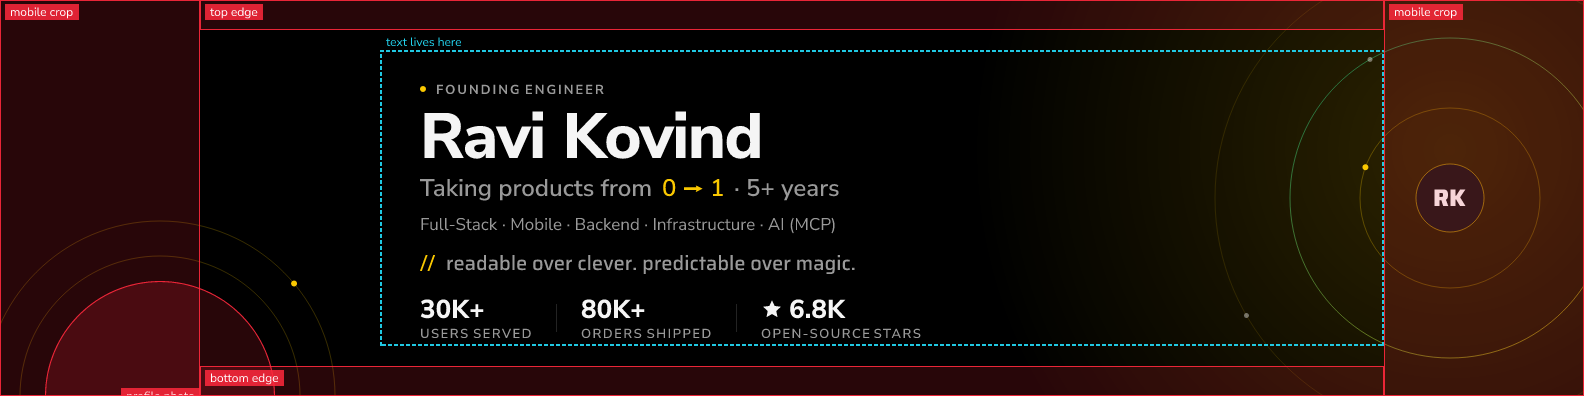
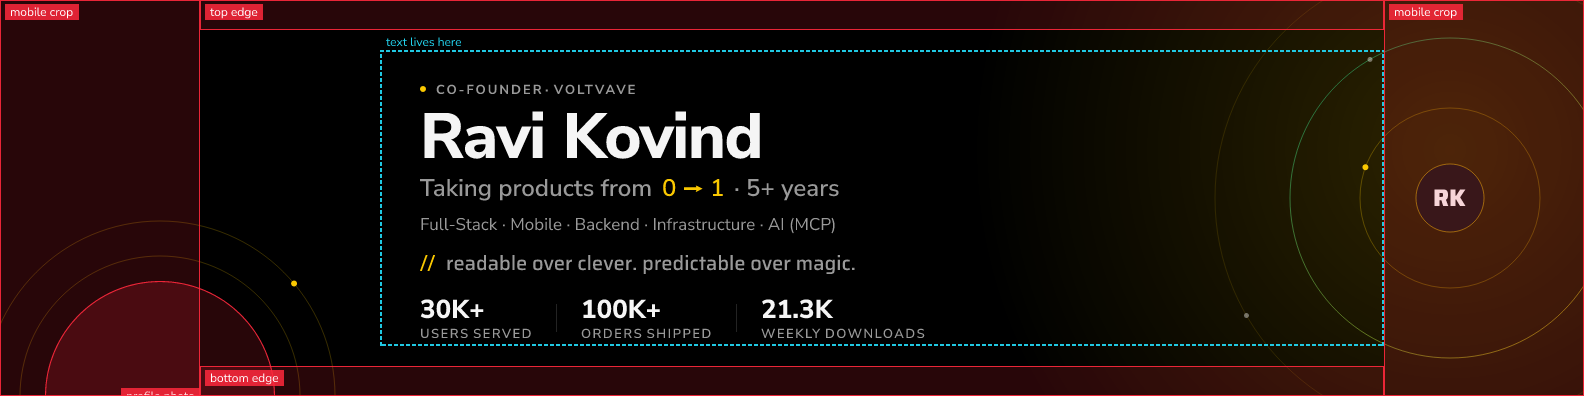
refresh(ravikovind): revision 3 — current role, current stats, corrected open-source metric
Source re-checked against ravikovind.com (was ravikovind.github.io):

- Title: "Founding Engineer" -> "Co-founder, VoltVave Innovations"
  (his real company, active since Mar 2025 — TingTing was 2022-25).
- TingTing's order stat: 80K+ -> 100K+, matching the current site.
- Open-source stat corrected, not just updated: the previous "*6.8K"
  GitHub-star claim doesn't hold up (gh api repos/ravikovind/flutter_lucide
  shows 25 stars). Replaced with the package's real, verified pub.dev
  metric — 21.3K weekly downloads, "verified publisher: voltvave.com".
  Dropped the drawn star icon along with the stat it illustrated.

Re-rendered both the cover and its @2x version, regenerated the guides
overlay + mobile crop (checked: no text in any danger zone), and
refreshed the three website copies of these images that had gone
stale (apps/web/public/gallery/linkedin-cover.png + guides-overlay.png
+ guides-mobile.png, apps/web/public/examples/ravikovind.png).

Full-repo npm run examples:diff (40 images) and apps/web build both
verified clean after this change.

Changed region(s): [[0.464, 0.7576, 0.5878, 0.8788], [0.2784, 0.2121, 0.4021, 0.2424], [0.3712, 0.7576, 0.4331, 0.8182]]

diff --git a/examples/ravikovind/plan.md b/examples/ravikovind/plan.md
@@ -4,13 +4,15 @@
 
 **Revision 2** — fonts changed to Nunito Sans + Saira; palette changed to the Open Notifier look (pure black, one accent) with the accent moved from green to yellow; unclear decorative elements removed (see §5.4).
 
+**Revision 3** — refreshed with Ravi's current facts from ravikovind.com (was ravikovind.github.io): title changed from "Founding Engineer" to "Co-founder, VoltVave Innovations" (his real company, active since Mar 2025); TingTing's order count updated 80K+ → 100K+ per the current site. The open-source stat was replaced: the previous "★6.8K" GitHub star claim didn't check out — `gh api repos/ravikovind/flutter_lucide` shows 25 stars — so it's now the package's actual, verified pub.dev metric (21.3K weekly downloads) instead, with the star icon dropped since the stat is no longer about stars.
+
 ---
 
 ## 1. Goal
 
 Produce a clean, premium, developer-flavoured LinkedIn banner that tells a recruiter or founder in under 3 seconds:
 
-1. **Who:** Ravi Kovind, Founding Engineer
+1. **Who:** Ravi Kovind, Co-founder of VoltVave Innovations
 2. **What:** takes products from 0 → 1 across Full-Stack, Mobile, Backend, Infrastructure (and AI/MCP)
 3. **Why trust him:** proof numbers + engineering philosophy
 
@@ -18,22 +20,22 @@ Tone: calm, confident, engineered. Not flashy, no stock "hacker" imagery, no neo
 
 ---
 
-## 2. Source facts (from ravikovind.github.io — use only these)
+## 2. Source facts (from ravikovind.com — use only these)
 
 | Field                  | Value                                                                                      |
 | ---------------------- | ------------------------------------------------------------------------------------------ |
 | Name                   | Ravi Kovind                                                                                |
-| Title                  | Founding Engineer                                                                          |
-| Experience             | 5+ years, 0 → 1 products                                                                   |
-| Scope                  | Full-Stack · Mobile · Backend · Infrastructure                                             |
+| Title                  | Co-founder, VoltVave Innovations (active since Mar 2025)                                   |
+| Experience             | 5+ years (since 2020), 0 → 1 products                                                     |
+| Scope                  | Full-Stack · Mobile · Backend · Infrastructure · AI (MCP)                                  |
 | Philosophy             | "Readable over clever. Predictable over magic."                                            |
-| Proof stats (TingTing) | 30K+ users · 80K+ orders · 35+ live stores                                                 |
-| Open source            | flutter_lucide — ★ 6.8K                                                                    |
-| Education              | NIT Allahabad                                                                              |
+| Proof stats (TingTing) | 30K+ users · 100K+ orders · 35+ live stores · ₹1.5Cr+ GMV (Founding Engineer, 2022–25)      |
+| Open source            | flutter_lucide — 21.3K weekly downloads on pub.dev, verified publisher (github.com/ravikovind/flutter_lucide has 25 stars — not the metric to lead with) |
+| Education              | NIT Allahabad (MNNIT)                                                                       |
 | Location               | Bengaluru, India                                                                           |
-| Core stack             | Flutter, Dart, Node.js, TypeScript, Python, Next.js, MongoDB, PostgreSQL, AWS, GCP, Docker |
-| AI work                | MCP client engine (MCPVave), Open Notifier (MCP push)                                      |
-| Handle / site          | ravikovind.github.io · @ravi_kovind                                                        |
+| Core stack             | Flutter, Dart, Node.js, TypeScript, Python (FastAPI), PostgreSQL, AWS, Kafka, Redis         |
+| AI work                | MCP client engine (MCPVave, Claude/GPT/Gemini across 6 platforms), Open Notifier (MCP push) |
+| Handle / site          | ravikovind.com · @ravi_kovind                                                               |
 | Brand mark             | "RK" monogram (text)                                                                       |
 
 Do **not** include phone number or email on the banner.
@@ -103,12 +105,12 @@ Rule: **yellow is the only accent.** Green appears once (the gradient ring). No 
 ```
  0                320  380                                   1110        1384      1584
  +-----------------+---+--------------------------------------+-----------+----------+
- |                 |   |  ● FOUNDING ENGINEER                  |           |  ◯ orbit |
+ |                 |   |  ● CO-FOUNDER · VOLTVAVE              |           |  ◯ orbit |
  |                 |   |  Ravi Kovind                          |  (empty,  |  rings   |
  |                 |   |  Taking products from 0 → 1 · 5+ yrs |  calm)    |  + RK    |
  |   ( ring around |   |  Full-Stack · Mobile · Backend · ...  |           |          |
  |   profile pic ) |   |  // readable over clever ...          |           |          |
- |                 |   |  30K+ USERS   80K+ ORDERS   ★6.8K OSS |           |          |
+ |                 |   |  30K+ USERS  100K+ ORDERS  21.3K DL/WK|           |          |
  +-----------------+---+--------------------------------------+-----------+----------+
 ```
 
@@ -116,7 +118,7 @@ Rule: **yellow is the only accent.** Green appears once (the gradient ring). No 
 
 | Line       | y (baseline) | Content                                                     | Style                                                          |
 | ---------- | ------------ | ----------------------------------------------------------- | -------------------------------------------------------------- |
-| Eyebrow    | 92           | `● FOUNDING ENGINEER` — dot is accent yellow                | Nunito Sans 700, 13 px, uppercase, +2 px tracking, secondary   |
+| Eyebrow    | 92           | `● CO-FOUNDER · VOLTVAVE` — dot is accent yellow             | Nunito Sans 700, 13 px, uppercase, +2 px tracking, secondary   |
 | Name       | 158          | `Ravi Kovind`                                               | Nunito Sans 800, 64 px, primary                                |
 | Title      | 196          | `Taking products from 0 → 1 · 5+ years`                     | Nunito Sans 600, 24 px, secondary; the `0 → 1` in accent yellow |
 | Scope      | 230          | `Full-Stack · Mobile · Backend · Infrastructure · AI (MCP)` | Nunito Sans 400, 17 px, secondary                              |
@@ -126,8 +128,8 @@ Rule: **yellow is the only accent.** Green appears once (the gradient ring). No 
 **Stats row** (number on top, label below):
 
 - `30K+` USERS SERVED
-- `80K+` ORDERS SHIPPED
-- `★ 6.8K` OPEN-SOURCE STARS (the star is drawn as a shape, not a font glyph)
+- `100K+` ORDERS SHIPPED
+- `21.3K` WEEKLY DOWNLOADS (flutter_lucide, pub.dev — plain number, no icon)
 
 Separate groups with a thin vertical hairline (1 px, white @ 14%, 28 px tall, 24 px either side).
 

diff --git a/examples/ravikovind/build-notes.md b/examples/ravikovind/build-notes.md
@@ -1,6 +1,18 @@
-# Build notes — Ravi Kovind LinkedIn cover (revision 2)
+# Build notes — Ravi Kovind LinkedIn cover (revision 3)
 
 Built from [`plan.md`](plan.md) with snap-x. The plan is the source of truth for copy, layout, colour and type; this file records how it was executed and what differed.
+
+## What changed in revision 3
+- **Source re-checked against ravikovind.com** (the plan previously cited ravikovind.github.io). Title changed
+  **Founding Engineer → Co-founder, VoltVave Innovations** (his real company, active since Mar 2025).
+  TingTing's order stat updated **80K+ → 100K+** to match the site's current numbers.
+- **Open-source stat corrected, not just updated:** the previous "★6.8K" GitHub-star claim was checked with
+  `gh api repos/ravikovind/flutter_lucide` and does not hold up — the real repo has 25 stars. Replaced with
+  the package's actual, verified pub.dev metric: 21.3K weekly downloads (cross-checked via the pub.dev page,
+  which also shows a "verified publisher: voltvave.com" badge). The star-shaped SVG icon was removed from
+  `_cover.mjs` along with it, since the stat is no longer about stars — this keeps the design honest rather
+  than reusing a drawn icon that no longer matches what it's illustrating.
+- Layout, palette, fonts and every other line of copy are unchanged from revision 2.
 
 ## What changed in revision 2
 - **Fonts:** Nunito Sans (all text) + Saira (the "mono role": the `//` philosophy line and the `RK` monogram). Was Inter + JetBrains Mono.
@@ -16,7 +28,7 @@ Built from [`plan.md`](plan.md) with snap-x. The plan is the source of truth for
 ## Deviations from the plan
 1. **snap-x (Satori → PNG)** rather than HTML + Playwright — this is a snap-x example.
 2. **No `.jpg`** — snap-x outputs PNG only; LinkedIn accepts PNG.
-3. **`★` and `●` are drawn shapes** (inline SVG star, CSS circle), not font glyphs, so they can never render as blank boxes.
+3. **`●` is a drawn shape** (CSS circle), not a font glyph, so it can never render as a blank box. (Revision 2/3 dropped the earlier drawn `★` icon along with the stat it illustrated — see revision 3 notes above.)
 4. **Saira is not a true monospace** — used for the mono role by choice (per the plan).
 5. **Stats are stacked** (number over label) to keep the block within `x ≤ 1080`.
 
@@ -26,7 +38,7 @@ Built from [`plan.md`](plan.md) with snap-x. The plan is the source of truth for
 - [x] Name is the most prominent element; legible at 50% zoom
 - [x] Yellow is the only accent; green appears once (the gradient ring)
 - [x] Every element has an obvious purpose — nothing left that needs explaining
-- [x] Copy matches plan §2 ("Ravi Kovind", "0 → 1", "6.8K")
+- [x] Copy matches plan §2 ("Ravi Kovind", "Co-founder · VoltVave", "0 → 1", "100K+", "21.3K")
 - [x] Contrast on `#000`: primary `#F5F5F5` 19.3:1 · secondary white@60% (`#999`) 7.4:1 · accent `#FAC800` 13.3:1
 - [x] Mobile crop keeps name, title and stats fully visible — `guides/…mobile.png`
 - [x] Nunito Sans and Saira load (no fallback); no blank-box glyphs
